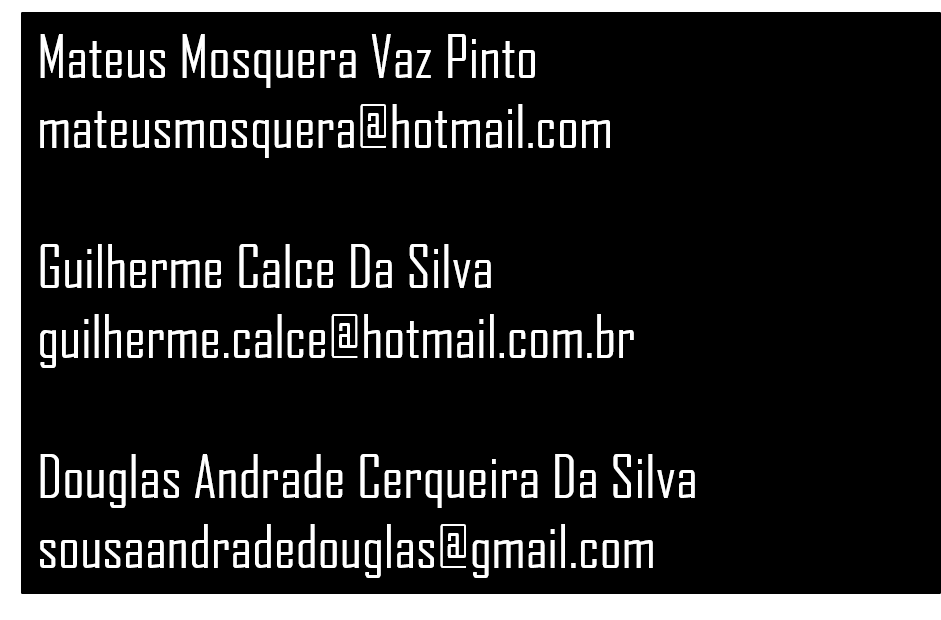
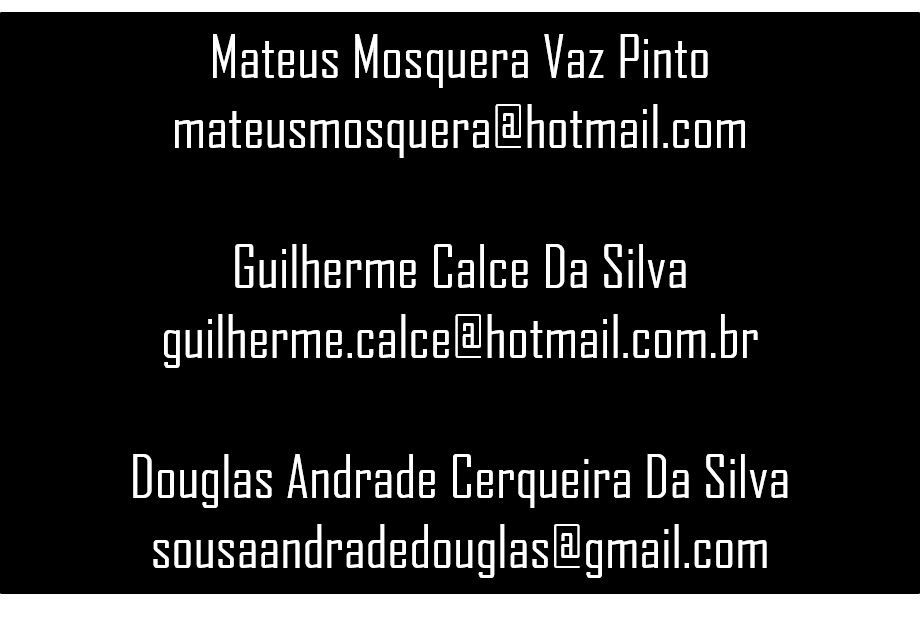
Menu Finalizado

Changed region(s): [[0.0, 0.0, 0.8826, 0.9806]]

diff --git a/Main/menu.py b/Main/menu.py
@@ -17,7 +17,8 @@ WHITE = (255,255,255)
 dislpay = pygame.display.set_mode((screen_largura,screen_altura))
 pygame.display.set_caption('COLORANDO')
 screen = pygame.display.get_surface()
-background = pygame.Surface(screen.get_size())
+oldbackground = pygame.image.load(globals.get_path()+"\\View\\menu\\rainbow.gif")
+background = pygame.transform.scale(oldbackground,(int(400*2), int(400*2)))
 pygame.font.init()
 font = pygame.font.get_default_font()
 
@@ -25,7 +26,7 @@ font = pygame.font.get_default_font()
 text_botaomenu = pygame.font.SysFont(font,40)
 text_titulo = pygame.font.SysFont(font,100)
 
-background.fill((0,0, 0))
+screen.blit(background,(0,0))
 
 centralizado = screen_largura/2
 
@@ -43,26 +44,40 @@ def botoesMenu(color,x,y,width,height):
     return pygame.draw.rect(screen, color, [x, y, width, height])        
 
 def menu():
-    titulo()
+    
     btn1 = botoesMenu(BLACK,300,200,372/2,149/2)
-    screen.blit(dimensao_botao('btnJogar'),(300,200))
     btn2 = botoesMenu(BLACK,300,300,372/2,149/2)
-    screen.blit(dimensao_botao('btnContato'),(300,300))
     btn3 = botoesMenu(BLACK,300,400,372/2,149/2)
-    screen.blit(dimensao_botao('btnPlacar'),(300,400))
     btn4 = botoesMenu(BLACK,300,600,372/2,149/2)
+    screen.blit(background,(0,0))
+    titulo()
+    screen.blit(dimensao_botao('btnJogar'),(300,200))    
+    screen.blit(dimensao_botao('btnContato'),(300,300))    
+    screen.blit(dimensao_botao('btnPlacar'),(300,400))    
     screen.blit(dimensao_botao('btnSair'),(300,600))
     return (btn1,btn2,btn3,btn4)
 
 
 def contatos():
-    aut = pygame.image.load(globals.get_path()+'\\View\\menu\\contatos.png').convert_alpha()
-    novo_aut = pygame.transform.scale(aut,(int(940/2), int(620/2)))
     screen.fill((0, 0, 0))
-    screen.blit(novo_aut,(250,100))
+    btn6 = botoesMenu(BLACK,300,500,372/2,149/2)    
+    screen.blit(background,(0,0))
+    screen.blit(dimensao_botao('btnVoltar'),(300,500))
+    aut = pygame.image.load(globals.get_path()+'\\View\\menu\\contatos.png').convert_alpha()
+    novo_aut = pygame.transform.scale(aut,(int(940/2), int(620/2)))    
+    screen.blit(novo_aut,(150,100))
+    if btn6.collidepoint(pos) and pressed1:
+        screen.fill((0, 0, 0))
+        pygame.display.flip()
+        menu()
+        pygame.display.flip()
+        return 1
+    else:
+        return 0
 
 def botaoVoltar():
-    btn6 = botoesMenu(BLACK,300,500,372/2,149/2)
+    btn6 = botoesMenu(BLACK,300,500,372/2,149/2)    
+    screen.blit(background,(0,0))
     screen.blit(dimensao_botao('btnVoltar'),(300,500))
     if btn6.collidepoint(pos) and pressed1:
         screen.fill((0, 0, 0))
@@ -75,15 +90,16 @@ def botaoVoltar():
     
     
 def primeiro():
+    pygame.display.update()
     if menu_botoes[0].collidepoint(pos) and pressed1:
         jogar()
-        return 1
+        return 2
     elif menu_botoes[1].collidepoint(pos) and pressed1:
         contatos()
         return 1
     elif menu_botoes[2].collidepoint(pos) and pressed1:
         placar()
-        return 1
+        return 3
     elif menu_botoes[3].collidepoint(pos) and pressed1:
         pygame.quit()
         exit()
@@ -96,42 +112,81 @@ def jogar():
     texto = []
     screen.fill((0, 0, 0))
     btn1 = botoesMenu(BLACK,300,400,372/2,149/2)
-    pygame.draw.rect(screen, (255,255,255),(250, 200, 300, 30))
+    screen.blit(background,(0,0))
     screen.blit(dimensao_botao('btnJogar'),(300,400))
     tituloJ = pygame.image.load(globals.get_path()+'\\View\\menu\\txtSeuNome.png').convert_alpha()
     novo_tituoj = pygame.transform.scale(tituloJ,(int(1036/2), int(264/2)))
     screen.blit(novo_tituoj,(180,50))
-    while True:
-        for event in pygame.event.get():
-            if event.type == pygame.KEYDOWN:
-                valor = event.key
-                print(valor)
-                if valor >= 97 and valor <= 122:
-                    texto.append(chr(valor))
-                elif valor>=49 and valor <= 57:
-                    texto.append(chr(valor))
-                elif valor == 32:
-                    texto.append(" ")
-                elif valor == 8:
-                    if(len(texto)>0):
-                        texto.pop()
-        font = pygame.font.Font(pygame.font.match_font("Arial"), 24)
-        pygame.draw.rect(screen, (255,255,255),(250, 200, 300, 30))
-        newSurface = font.render(globals.convert(texto), True, (0,0,0))
-        screen.blit(newSurface,(250, 200))
-        pygame.display.update()
+    flag = True
+    while True:        
+        if(flag == False):
+            screen.fill((0, 0, 0))            
+            menu()
+            pygame.display.flip()
+            break
+        else:
+            pygame.draw.rect(screen, (255,255,255),(250, 200, 300, 30))    
+            for event in pygame.event.get():
+                pos = pygame.mouse.get_pos()
+                pressed1,pressed2,pressed3 = pygame.mouse.get_pressed()
+                btn6 = botoesMenu(BLACK,300,500,372/2,149/2)
+                btn1 = botoesMenu(BLACK,300,400,372/2,149/2)
+                screen.blit(background,(0,0))
+                screen.blit(dimensao_botao('btnJogar'),(300,400))
+                tituloJ = pygame.image.load(globals.get_path()+'\\View\\menu\\txtSeuNome.png').convert_alpha()
+                novo_tituoj = pygame.transform.scale(tituloJ,(int(1036/2), int(264/2)))
+                screen.blit(novo_tituoj,(180,50))
+                screen.blit(dimensao_botao('btnVoltar'),(300,500))
+                if event.type == pygame.KEYDOWN:
+                    valor = event.key
+                    if valor >= 97 and valor <= 122:
+                        texto.append(chr(valor))
+                    elif valor>=49 and valor <= 57:
+                        texto.append(chr(valor))
+                    elif valor == 32:
+                        texto.append(" ")
+                    elif valor == 8:
+                        if(len(texto)>0):
+                            texto.pop()
+                elif event.type == QUIT:
+                    pygame.quit()
+                    exit()
+                elif btn1.collidepoint(pos) and pressed1:
+                    return globals.convert(texto)
+                elif btn6.collidepoint(pos) and pressed1:
+                    screen.fill((0, 0, 0))                    
+                    pygame.display.flip()
+                    flag = False
+                    break
+                        
+            font = pygame.font.Font(pygame.font.match_font("Arial"), 24)
+            pygame.draw.rect(screen, (255,255,255),(250, 200, 300, 30))
+            newSurface = font.render(globals.convert(texto), True, (0,0,0))
+            screen.blit(newSurface,(250, 200))
+            pygame.display.update()
    
-def placar():
+def placar():       
     placar = pygame.image.load(globals.get_path()+'\\View\\menu\\txtPlacar.png').convert_alpha()
     novo_placar = pygame.transform.scale(placar,(int(406/2), int(264/2)))
     screen.fill((0, 0, 0))
+    btn6 = botoesMenu(BLACK,300,500,372/2,149/2)    
+    screen.blit(background,(0,0))
     screen.blit(novo_placar,(290,50))
+    screen.blit(dimensao_botao('btnVoltar'),(300,500))
+    if btn6.collidepoint(pos) and pressed1:
+        screen.fill((0, 0, 0))
+        pygame.display.flip()
+        menu()
+        pygame.display.flip()
+        return 3
+    else:
+        return 0
 
     
 menu()
 
 pygame.display.flip()
-
+screen.blit(background,(0,0))
 menu_botoes = menu()
 
 tela = True
@@ -142,8 +197,15 @@ while True:
     if cont == 1:
         cont = cont + primeiro()
     elif cont == 2:
-        cont = cont - botaoVoltar()
+        cont = cont - contatos()
+    elif cont == 3:
+        cont= cont + 2
+    elif cont == 4:
+        cont = cont - placar()
+    elif cont == 5:
+        
     pygame.display.flip()
+    pygame.display.update()
     for event in pygame.event.get():
         if event.type == QUIT:
             pygame.quit()
